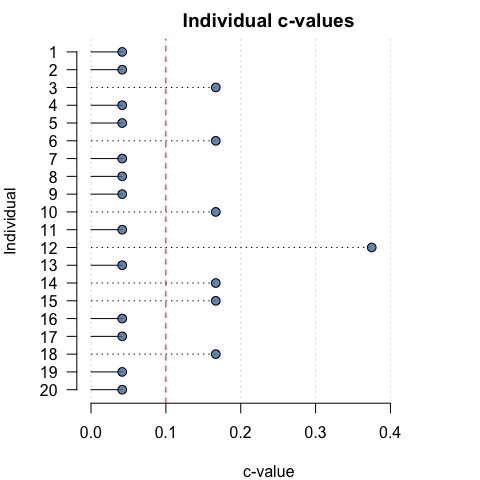
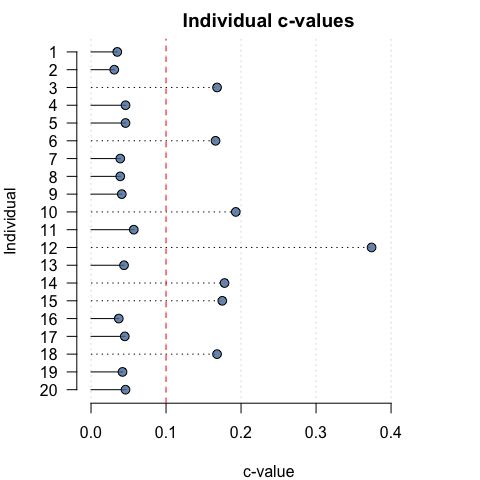
fixed sampling for group cval

diff --git a/src/cpp_functions.cpp b/src/cpp_functions.cpp
@@ -124,7 +124,6 @@ IntegerVector c_ordering(NumericVector xs, String pairing_type, float diff_thres
     return c_sign_with_threshold(diff(xs), diff_threshold);
 }
 
-
 /*
  * Calculate a PCC for each reordered vector and compare it to the corresponding
  * observed PCC from m. Increments n_perms_greater_eq for each reordering with a

diff --git a/README.md b/README.md
@@ -150,7 +150,7 @@ An ordinal pattern analysis model to consider how the hypothesis `h`
 matches each individual pattern of results in `dat` can be fitted using:
 
 ``` r
-opamod <- opa(dat, h, cval_method = "exact")
+opamod <- opa(dat, h)
 ```
 
 Specifying `cval_method = "exact"` computes chance values using a
@@ -168,34 +168,34 @@ summary(opamod)
 #> Ordinal Pattern Analysis of 4 observations for 20 individuals in 1 group 
 #> 
 #> Between subjects results:
-#>          PCC       cval
-#> pooled 93.33 0.09583333
+#>          PCC cval
+#> pooled 93.33    0
 #> 
 #> Within subjects results:
 #>       PCC cval
 #> 1  100.00 0.04
-#> 2  100.00 0.04
+#> 2  100.00 0.03
 #> 3   83.33 0.17
-#> 4  100.00 0.04
-#> 5  100.00 0.04
+#> 4  100.00 0.05
+#> 5  100.00 0.05
 #> 6   83.33 0.17
 #> 7  100.00 0.04
 #> 8  100.00 0.04
 #> 9  100.00 0.04
-#> 10  83.33 0.17
-#> 11 100.00 0.04
-#> 12  66.67 0.38
+#> 10  83.33 0.19
+#> 11 100.00 0.06
+#> 12  66.67 0.37
 #> 13 100.00 0.04
-#> 14  83.33 0.17
+#> 14  83.33 0.18
 #> 15  83.33 0.17
 #> 16 100.00 0.04
 #> 17 100.00 0.04
 #> 18  83.33 0.17
 #> 19 100.00 0.04
-#> 20 100.00 0.04
+#> 20 100.00 0.05
 #> 
 #> PCCs were calculated for pairwise ordinal relationships using a difference threshold of 0.
-#> Chance-values were calculated using the exact method.
+#> Chance-values were calculated using the stochastic method.
 ```
 
 Individual-level model output can be plotted using:
@@ -232,11 +232,11 @@ condition_comparisons$pccs
 #> 3 100 100  - -
 #> 4  95  80 95 -
 condition_comparisons$cvals
-#>       1   2     3 4
-#> 1     -   -     - -
-#> 2  0.55   -     - -
-#> 3   0.5 0.5     - -
-#> 4 0.525 0.6 0.525 -
+#>   1     2 3 4
+#> 1 -     - - -
+#> 2 0     - - -
+#> 3 0     0 - -
+#> 4 0 0.002 0 -
 ```
 
 ### Multiple groups
@@ -249,7 +249,7 @@ within the data, in addition to individual results.
 dat$group <- rep(c("A", "B", "C", "D"), 5)
 dat$group <- factor(dat$group, levels = c("A", "B", "C", "D"))
 
-opamod2 <- opa(dat[, 1:4], h, group = dat$group, cval_method = "exact")
+opamod2 <- opa(dat[, 1:4], h, group = dat$group)
 ```
 
 The summary output displays results organised by group.
@@ -259,37 +259,37 @@ summary(opamod2, digits = 3)
 #> Ordinal Pattern Analysis of 4 observations for 20 individuals in 4 groups 
 #> 
 #> Between subjects results:
-#>       PCC       cval
-#> A 100.000 0.04166667
-#> B  86.667 0.14166667
-#> C  93.333 0.09166667
-#> D  93.333 0.10833333
+#>       PCC  cval
+#> A 100.000 0.000
+#> B  86.667 0.001
+#> C  93.333 0.000
+#> D  93.333 0.000
 #> 
 #> Within subjects results:
 #>   Individual     PCC  cval
 #> A          1 100.000 0.042
-#> A          5 100.000 0.042
-#> A          9 100.000 0.042
-#> A         13 100.000 0.042
-#> A         17 100.000 0.042
-#> B          2 100.000 0.042
-#> B          6  83.333 0.167
-#> B         10  83.333 0.167
-#> B         14  83.333 0.167
-#> B         18  83.333 0.167
-#> C          3  83.333 0.167
-#> C          7 100.000 0.042
-#> C         11 100.000 0.042
-#> C         15  83.333 0.167
-#> C         19 100.000 0.042
-#> D          4 100.000 0.042
-#> D          8 100.000 0.042
-#> D         12  66.667 0.375
-#> D         16 100.000 0.042
-#> D         20 100.000 0.042
+#> A          5 100.000 0.044
+#> A          9 100.000 0.041
+#> A         13 100.000 0.041
+#> A         17 100.000 0.044
+#> B          2 100.000 0.049
+#> B          6  83.333 0.177
+#> B         10  83.333 0.160
+#> B         14  83.333 0.166
+#> B         18  83.333 0.154
+#> C          3  83.333 0.184
+#> C          7 100.000 0.047
+#> C         11 100.000 0.035
+#> C         15  83.333 0.149
+#> C         19 100.000 0.037
+#> D          4 100.000 0.040
+#> D          8 100.000 0.043
+#> D         12  66.667 0.374
+#> D         16 100.000 0.034
+#> D         20 100.000 0.039
 #> 
 #> PCCs were calculated for pairwise ordinal relationships using a difference threshold of 0.
-#> Chance-values were calculated using the exact method.
+#> Chance-values were calculated using the stochastic method.
 ```
 
 Similarly, plotting the output shows individual PCCs and c-values by
